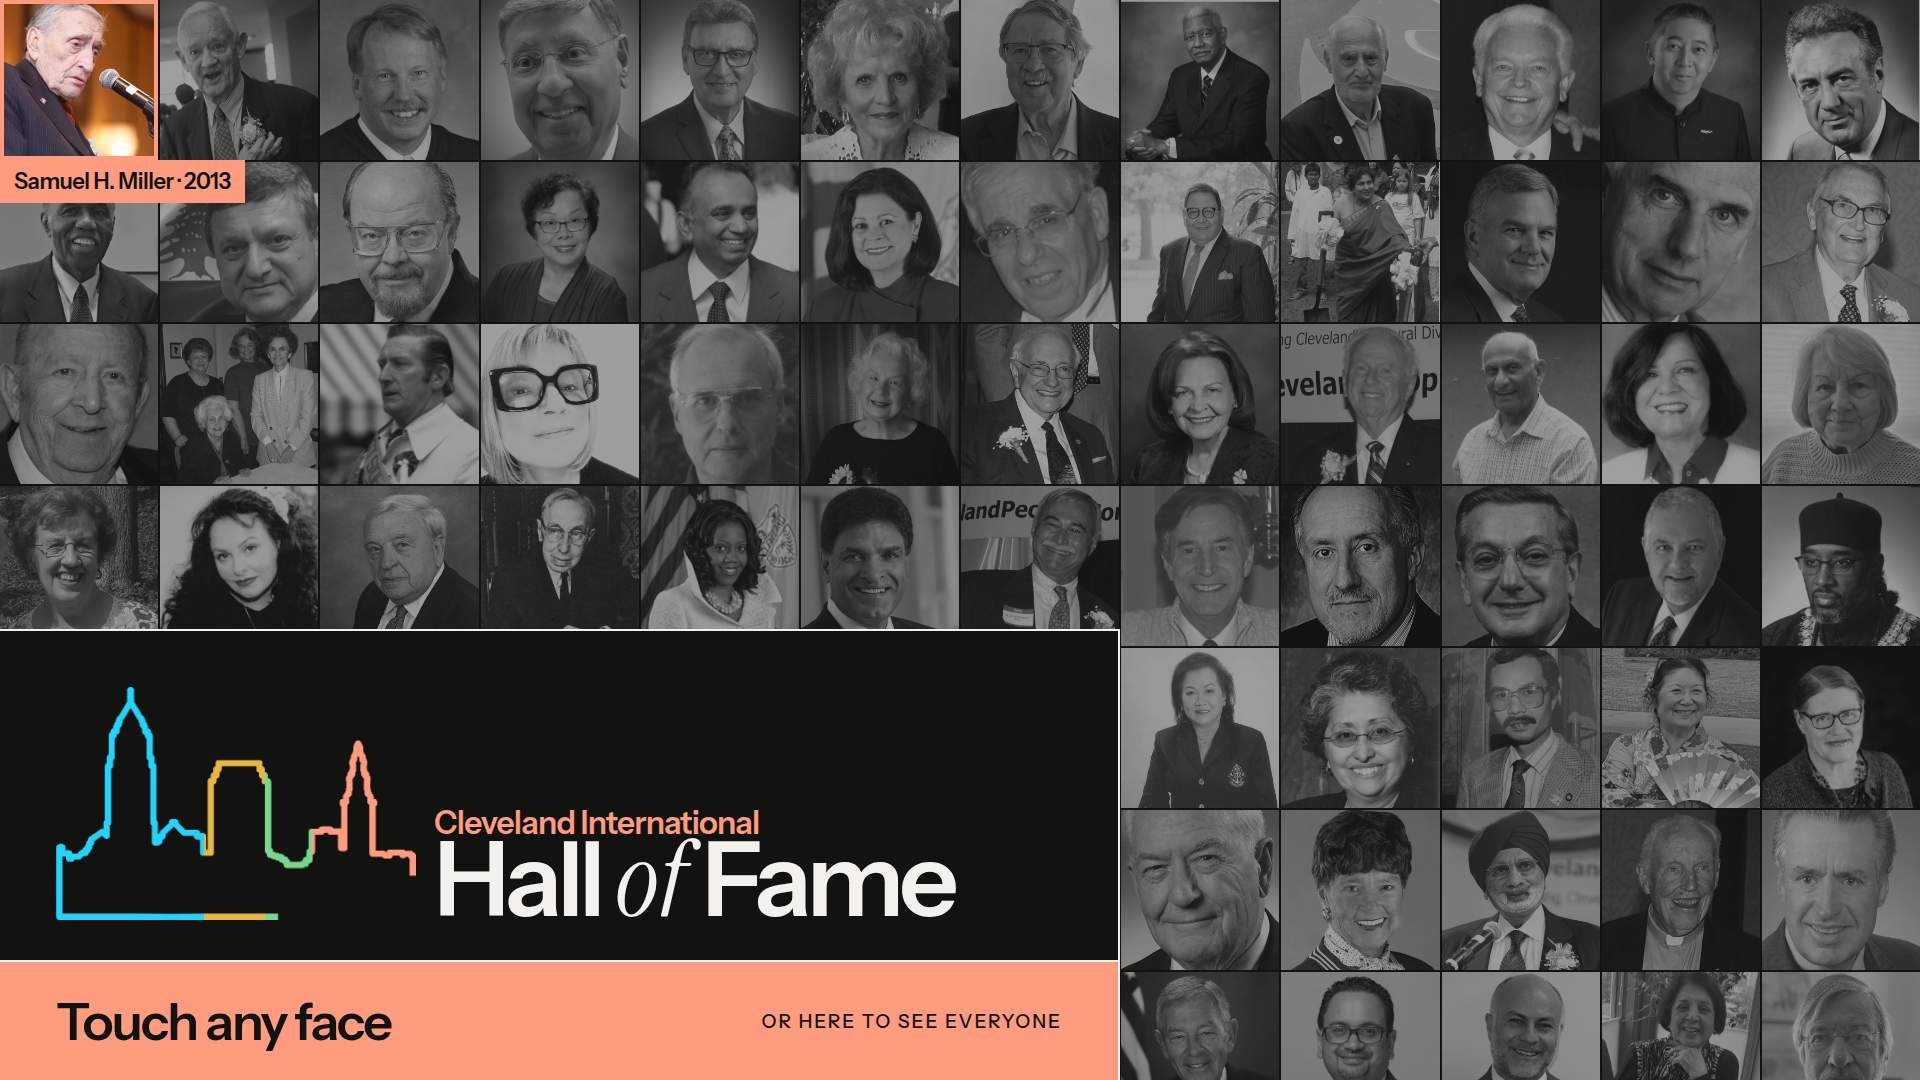
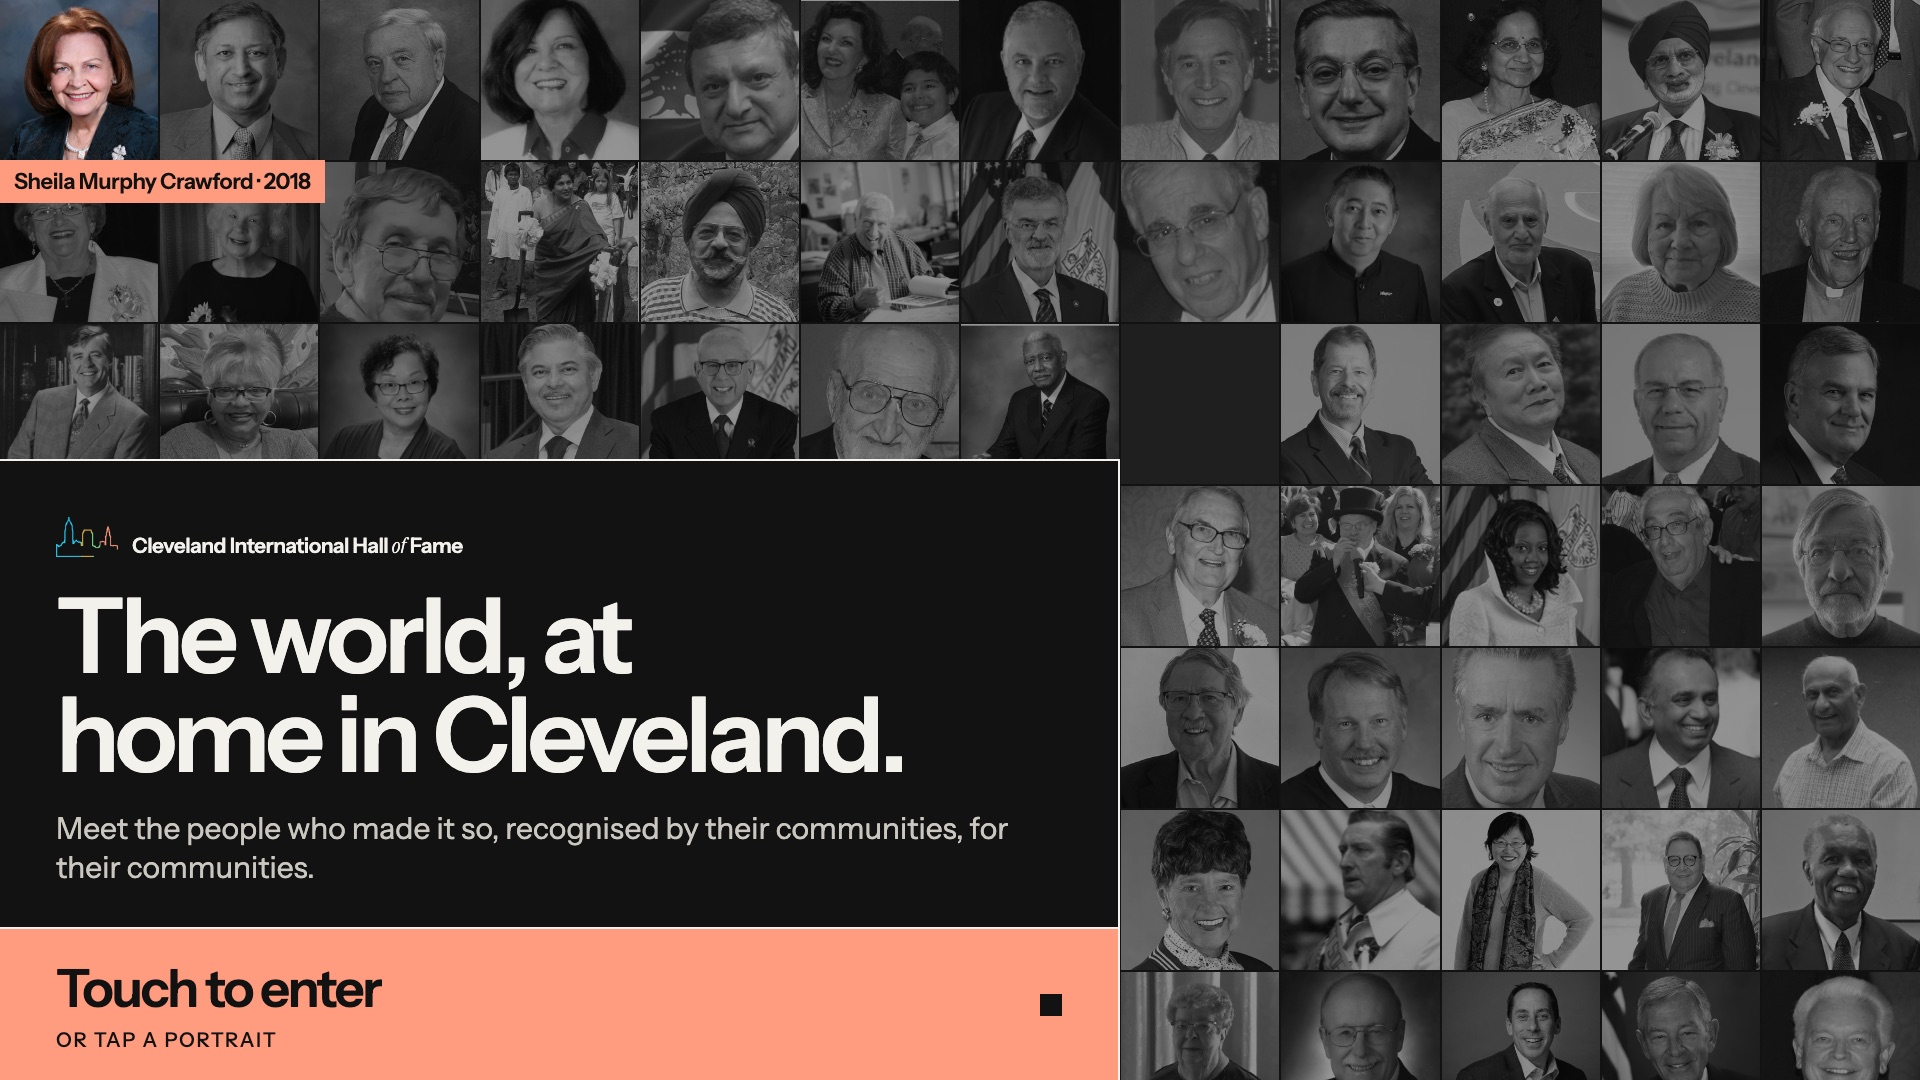
Exhibit: the Wall, stage 9 (still here?), and the staff docs
- "Are you still here?" after a minute with nobody touching the display, and
  the display starts over twenty seconds later, as designed (it was a
  minute and a half, then thirty seconds). A film playing still counts as
  somebody there. The warning and the take-away code lie over a dimmed
  display and rise in.
- The colour names kept for the earlier screens are retired; every rule uses
  the design's tokens.
- Gallery staff walkthrough and staff guide describe the new display: the
  wall and its lenses, the story, Connections and saved threads, Search, the
  colours key, tours and how one is approved, and the new timings. The four
  display photographs are retaken from this build.

diff --git a/apps/exhibit/src/app/exhibit.css b/apps/exhibit/src/app/exhibit.css
@@ -30,7 +30,6 @@
 
 :root {
   --ground: #121211;
-  --ground-film: #000;
   --ink: #f2f1ec;
   --ink-soft: #c9c7bf;
   --muted: #a19f97;
@@ -68,16 +67,6 @@
      dialog, drawn outside the stage, it carries the scale itself. */
   --px: calc(var(--stage-scale, 1) * 1px);
 
-  /* Earlier names, for the screens not yet moved onto the wall. */
-  --rule-soft: var(--rule);
-  --lens-people: var(--people);
-  --lens-years: var(--years);
-  --lens-links: var(--links);
-  --lens-places: var(--places);
-  --lens-people-ink: var(--people-ink);
-  --lens-years-ink: var(--years-ink);
-  --lens-links-ink: var(--links-ink);
-  --lens-places-ink: var(--places-ink);
   color-scheme: dark;
 }
 
@@ -686,14 +675,17 @@ dialog.film { background: #000; }
 /* ---------------------------------------------------- idle warning, sharing */
 
 .warning__panel, .share__panel, .recovery__panel { border: 2px solid var(--ink); background: var(--ground); }
-dialog.share, dialog.warning { inset: 0; width: 100%; height: 100%; background: color-mix(in srgb, var(--ground) 90%, transparent); }
+/* The warning and the code lie over the display, the display dimmed behind. */
+dialog.share, dialog.warning { inset: 0; width: 100%; height: 100%; background: var(--scrim); }
+dialog.share::backdrop, dialog.warning::backdrop { background: transparent; }
+.warning__panel, .share__panel { animation: rise 300ms var(--ease) both; }
 .warning[open], .share[open] { display: grid; place-items: center; padding: 1.5rem; }
 .warning__panel { width: min(calc(900 * var(--px)), 100%); padding: calc(56 * var(--px)); }
 .warning__panel h2 { margin: 0 0 calc(20 * var(--px)); font-size: calc(66 * var(--px)); font-weight: 600; letter-spacing: -0.045em; line-height: 0.95; }
 .warning__panel p { margin: 0 0 calc(40 * var(--px)); color: var(--ink-soft); font-size: calc(28 * var(--px)); }
 .warning__actions { display: flex; flex-wrap: wrap; gap: calc(16 * var(--px)); }
 .warning__actions button { flex: 1; min-height: max(var(--tap), calc(96 * var(--px))); padding: 0 calc(32 * var(--px)); border: 2px solid var(--ink); background: transparent; font-size: calc(34 * var(--px)); font-weight: 600; letter-spacing: -0.03em; }
-.warning__actions button:first-child { border-color: var(--lens-people); background: var(--lens-people); color: var(--on-lens); }
+.warning__actions button:first-child { border-color: var(--people); background: var(--people); color: var(--on-lens); }
 
 /* Continuation. The code is large enough to scan from standing distance, and
    the address is readable for anyone who would rather type it. */
@@ -702,8 +694,8 @@ dialog.share, dialog.warning { inset: 0; width: 100%; height: 100%; background: 
 .share__panel p { margin: 0 0 calc(24 * var(--px)); color: var(--ink-soft); font-size: calc(24 * var(--px)); }
 .share__panel canvas { display: block; width: min(calc(400 * var(--px)), 100%); height: auto; margin: 0 auto calc(24 * var(--px)); background: #fff; }
 .share__url { font-family: ui-monospace, Menlo, monospace; overflow-wrap: anywhere; color: var(--ink) !important; }
-.share__problem { color: var(--lens-people-ink) !important; }
-.share__panel button { min-height: max(var(--tap), calc(80 * var(--px))); margin-top: calc(8 * var(--px)); padding: 0 calc(48 * var(--px)); border: 0; background: var(--lens-people); color: var(--on-lens); font-size: calc(30 * var(--px)); font-weight: 600; }
+.share__problem { color: var(--people-ink) !important; }
+.share__panel button { min-height: max(var(--tap), calc(80 * var(--px))); margin-top: calc(8 * var(--px)); padding: 0 calc(48 * var(--px)); border: 0; background: var(--people); color: var(--on-lens); font-size: calc(30 * var(--px)); font-weight: 600; }
 
 /* Operator recovery. Plain, dense and readable over someone's shoulder. */
 dialog.recovery { inset: 0; width: 100%; height: 100%; background: color-mix(in srgb, var(--ground) 94%, transparent); }
@@ -714,14 +706,14 @@ dialog.recovery { inset: 0; width: 100%; height: 100%; background: color-mix(in 
 .recovery__facts dt { font-size: 0.8125rem; letter-spacing: 0.06em; text-transform: uppercase; color: var(--muted); }
 .recovery__facts dd { margin: 0; overflow-wrap: anywhere; }
 .recovery code { font-family: ui-monospace, Menlo, monospace; font-size: 0.9em; }
-.recovery__outcome { margin: 1rem 0 0; padding: 0.75rem; border: 2px solid var(--lens-people-ink); color: var(--lens-people-ink); }
+.recovery__outcome { margin: 1rem 0 0; padding: 0.75rem; border: 2px solid var(--people-ink); color: var(--people-ink); }
 .recovery__missing ul { margin: 0; padding-left: 1.25rem; font-size: 0.875rem; }
 .recovery__actions { display: flex; flex-wrap: wrap; gap: 0.75rem; margin-top: 1.5rem; }
 .recovery__actions button { min-height: var(--tap); padding: 0 1.25rem; border: 2px solid var(--ink); background: transparent; font-weight: 700; }
 .recovery__actions button:disabled { opacity: 0.45; }
 
 /* A build with test timings says so, so it cannot be mistaken for production. */
-.testbuild { position: fixed; z-index: 50; right: 0; bottom: 0; margin: 0; padding: 0.25rem 0.6rem; background: var(--lens-people); color: var(--on-lens); font-size: 0.75rem; font-weight: 700; letter-spacing: 0.06em; }
+.testbuild { position: fixed; z-index: 50; right: 0; bottom: 0; margin: 0; padding: 0.25rem 0.6rem; background: var(--people); color: var(--on-lens); font-size: 0.75rem; font-weight: 700; letter-spacing: 0.06em; }
 .previewbuild { position: fixed; z-index: 50; left: 0; right: 0; top: 0; margin: 0; padding: 0.3rem 0.75rem; background: var(--unreviewed); color: #141414; font-size: 0.8125rem; font-weight: 700; letter-spacing: 0.04em; text-align: center; }
 .unreviewed { margin-left: 0.75rem; padding: 0.1rem 0.45rem; border: 1px solid var(--unreviewed); color: var(--unreviewed-ink); font-size: 0.6875rem; font-style: normal; font-weight: 700; letter-spacing: 0.06em; text-transform: uppercase; vertical-align: middle; }
 

diff --git a/apps/exhibit/src/app/config.ts b/apps/exhibit/src/app/config.ts
@@ -18,9 +18,14 @@ const raw = {
  */
 export const isTestBuild = raw.testMode === '1';
 
+/**
+ * A visitor who has stopped touching the display is asked whether they are
+ * still there after a minute, and the display starts over twenty seconds
+ * later. A film playing counts as somebody there.
+ */
 export const configuredTiming = {
-  idleMs: toMs(raw.idleMs, 120_000),
-  warningMs: toMs(raw.warningMs, 30_000),
+  idleMs: toMs(raw.idleMs, 80_000),
+  warningMs: toMs(raw.warningMs, 20_000),
 };
 
 function toMs(value: string | undefined, fallback: number): number {

diff --git a/docs/training/gallery-staff.md b/docs/training/gallery-staff.md
@@ -12,52 +12,61 @@ below point into it.
 
 ### The attract screen
 
-![The attract screen: a wall of portraits in grey, one in colour, the Hall of Fame's name and "Touch any face"](images/display-attract.jpg)
+![The attract screen: a wall of portraits in grey, one in colour, the Hall of Fame's name and the coral "Touch to enter"](images/display-attract.jpg)
 
 When nobody is using the display, it shows the **attract screen**: every
-inductee's portrait in grey, one lit up in colour at a time, and a call to
-action along the bottom. Its job is to invite someone over.
+inductee's portrait in grey, one lit up in colour at a time, and a coral
+call to action. Its job is to invite someone over.
 
-- Touching a **face** opens that person.
-- Touching **"Touch any face"** (the coral bar) opens the whole collection.
+- Touching a **face** opens the wall with that person chosen.
+- Touching **"Touch to enter"** (the coral bar) opens the whole wall.
 
 There are three versions of the attract screen: portraits (as here), a wall
 of names, or both. Which one shows is chosen in the admin panel (section 4
 below).
 
-### Exploring
+### The wall
 
-![The People screen: the chosen person large on the left, a grid of portraits on the right, four coloured tabs along the bottom](images/display-people.jpg)
+![The wall: every inductee's face at once, one chosen and in colour with their name, a panel on the right with their story and "Read their story"](images/display-people.jpg)
 
-Everything a visitor needs is along the **bottom** of the screen, within
-reach of someone standing or seated:
+Everything is one wall of the inductees' faces, arranged in different ways.
+Along the **bottom**, within reach of someone standing or seated:
 
-- four tabs, each with its own colour: **People**, **Years**,
-  **Connections**, **Places**;
-- **Start over**, which goes back to the attract screen.
+- **People**, **Years** and **Connections**, each with its own colour: the
+  same faces, arranged A to Z (or by community or contribution), by
+  induction class, or by who is connected to whom;
+- **Search**, **Tour**, **Light** or **Dark**, and **Start over**, which goes
+  back to the attract screen.
 
-Touching a portrait chooses that person: it turns from grey to colour, and
-their name appears on the left. **Read the record** opens their full story.
-**Years** and **Places** work the same way: touch a portrait, then **Read
-the record**.
+Touching a face chooses that person: it turns from grey to colour, and a
+panel slides in from the right with the start of their story. **Read their
+story** opens the whole of it. Visitors can also hold a face to see its name,
+pull a face down to open it, and pinch to zoom.
 
-![A person's record: the portrait on the left, name, facts and biography on the right, actions along the bottom](images/display-record.jpg)
+![A person's story: their portrait on the left with "Watch the film", the story in two columns on the right, turned a page at a time](images/display-record.jpg)
 
-The record has its actions along the bottom too: **Close**, **Watch the
-film** when there is one, **Connections**, and **Take it with you** (a code
-for a phone) when the website is set up.
+A story is turned a page at a time, with the arrows along the bottom or a
+swipe. **Watch the film** sits on the portrait when there is one; **Next
+story** goes on to the next face along the wall; **Back to the wall** closes
+it.
 
-![Connections: a map with the chosen person at the centre, the people they are connected to around them, and a panel listing each connection](images/display-connections.jpg)
+![Connections: the chosen person at the centre, the people they are connected to around them with the wording of each tie, and a panel listing them](images/display-connections.jpg)
 
 **Connections** shows only relationships a curator has checked against the
-records. Touching anyone brings them to the centre.
+records. Touching anyone brings them to the centre, and the walk builds up
+along the top; **Save this thread** keeps it for the visitors after, under
+**Tour**. **Same place** sets the people out where their places are in the
+city.
+
+**Search** finds names, words in the stories, communities, years, places and
+what is said in the films, typed on a keyboard.
 
 ### When a visitor walks away
 
-After about 90 seconds with nobody touching it, the display asks **"Are you
-still here?"**. After another 30 seconds it goes back to the attract screen,
-and the next visitor starts fresh. Nothing one visitor did is kept for the
-next.
+After a minute with nobody touching it, the display asks **"Are you still
+here?"**. Twenty seconds later it goes back to the attract screen, and the
+next visitor starts fresh. The only thing kept for the next visitor is a
+thread someone chose to save.
 
 ---
 
@@ -77,7 +86,7 @@ Windows down as usual (staff guide section 3).
 When you open, check three things:
 
 - [ ] The attract screen is showing, and a portrait or name is lit up in colour.
-- [ ] Touch a face: that person opens. Touch **Start over**: the attract screen comes back.
+- [ ] Touch **Touch to enter**, then a face: that person's panel opens. Touch **Start over**: the attract screen comes back.
 - [ ] The screen is clean. Use a soft dry cloth, with the display showing the attract screen.
 
 That is all. If something is wrong, see section 5.

diff --git a/docs/staff-guide.md b/docs/staff-guide.md
@@ -43,9 +43,27 @@ Until a curator approves the exact words (7.3), it shows the hall's name
 alone.
 
 The exhibit is dark as designed; the admin panel can switch it to light
-colours for a bright room (below). Films always play on black. The public
-website starts in light colours, with a **Dark** / **Light** button beside
-*Start over*; it remembers a visitor's choice on their own phone or computer.
+colours for a bright room (below). Films always play on black. A **Light** /
+**Dark** key beside *Start over* lets a visitor switch for their own visit;
+the next visitor meets the colours the admin panel chose. The public website
+starts in light colours and remembers a visitor's choice on their own phone
+or computer.
+
+After a minute with nobody touching it, the display asks **"Are you still
+here?"**, and twenty seconds later it starts over. A film playing counts as
+somebody there.
+
+**Tours.** The **Tour** key offers curated tours and the threads visitors
+saved. A curated tour appears only once a curator has approved it: set its
+`reviewStatus` to `approved` in `data/cihof_story_lenses.json` and publish a
+new release. Its people are chosen when the release is built, from the
+published biographies and honours, by the tour's terms and themes; its
+`pinnedPersonIds` lead and its `excludedPersonIds` never appear. An editor's
+preview shows the drafts, marked *Unreviewed*. **Saved threads** are walks
+through Connections that a visitor chose to keep. They stay on the display
+for the visitors after, named for the people they start and end with (nobody
+types a name), newest first, up to 24. Any visitor can reorder, shorten or
+delete one from *Edit* on the Tour screen.
 
 The application looks after itself:
 
